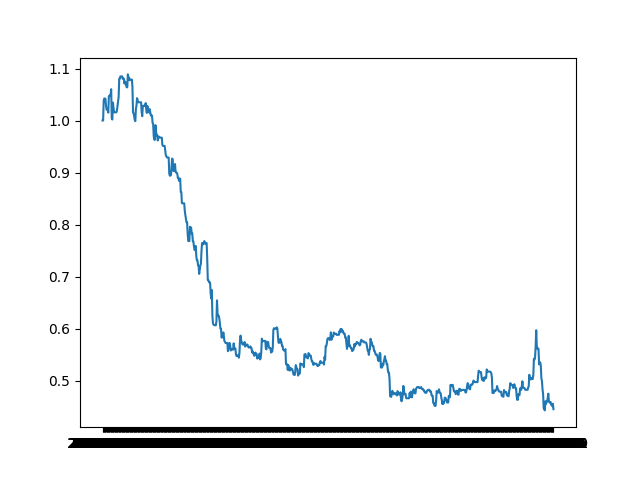
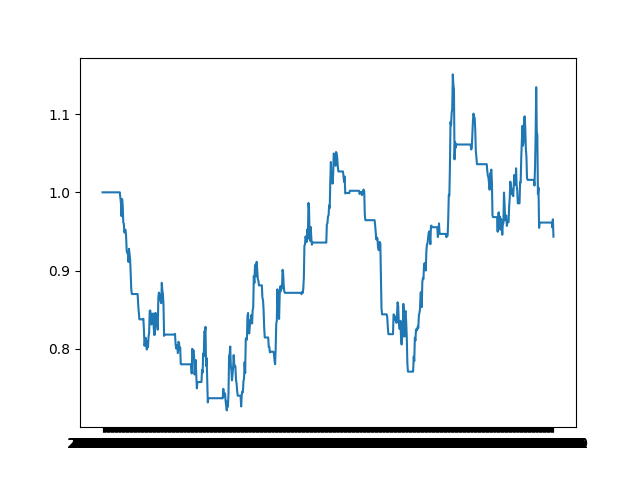
fix error on Trader.py

diff --git a/Trader.py b/Trader.py
@@ -69,8 +69,8 @@ class Trader:
     def cal_rest_data(self):
         for today in self.list_dailyData[2:]:
             yesterday = self.list_dailyData[self.list_dailyData.index(today) - 1]
-            today.ema12 = yesterday.close * 11 / 13 + today.close * 2 / 13
-            today.ema26 = yesterday.close * 25 / 27 + today.close * 2 / 27
+            today.ema12 = yesterday.ema12 * 11 / 13 + today.close * 2 / 13
+            today.ema26 = yesterday.ema26 * 25 / 27 + today.close * 2 / 27
             today.dif = today.ema12 - today.ema26
             today.dea = yesterday.dea * 8 / 10 + today.dif * 2 / 10
             # 0指dea高于dif 1指dif高于dea 由0->1则指示dif由下向上突破dea 买入 由1->0则指示dif由上向下突破dea 卖出

diff --git a/README.md b/README.md
@@ -6,7 +6,7 @@
 clone本仓库
 
 ```
-    pip3 install -r requirement.txt
+    pip3 install -r requirements.txt
     python simulator.py
 ```
 ---
